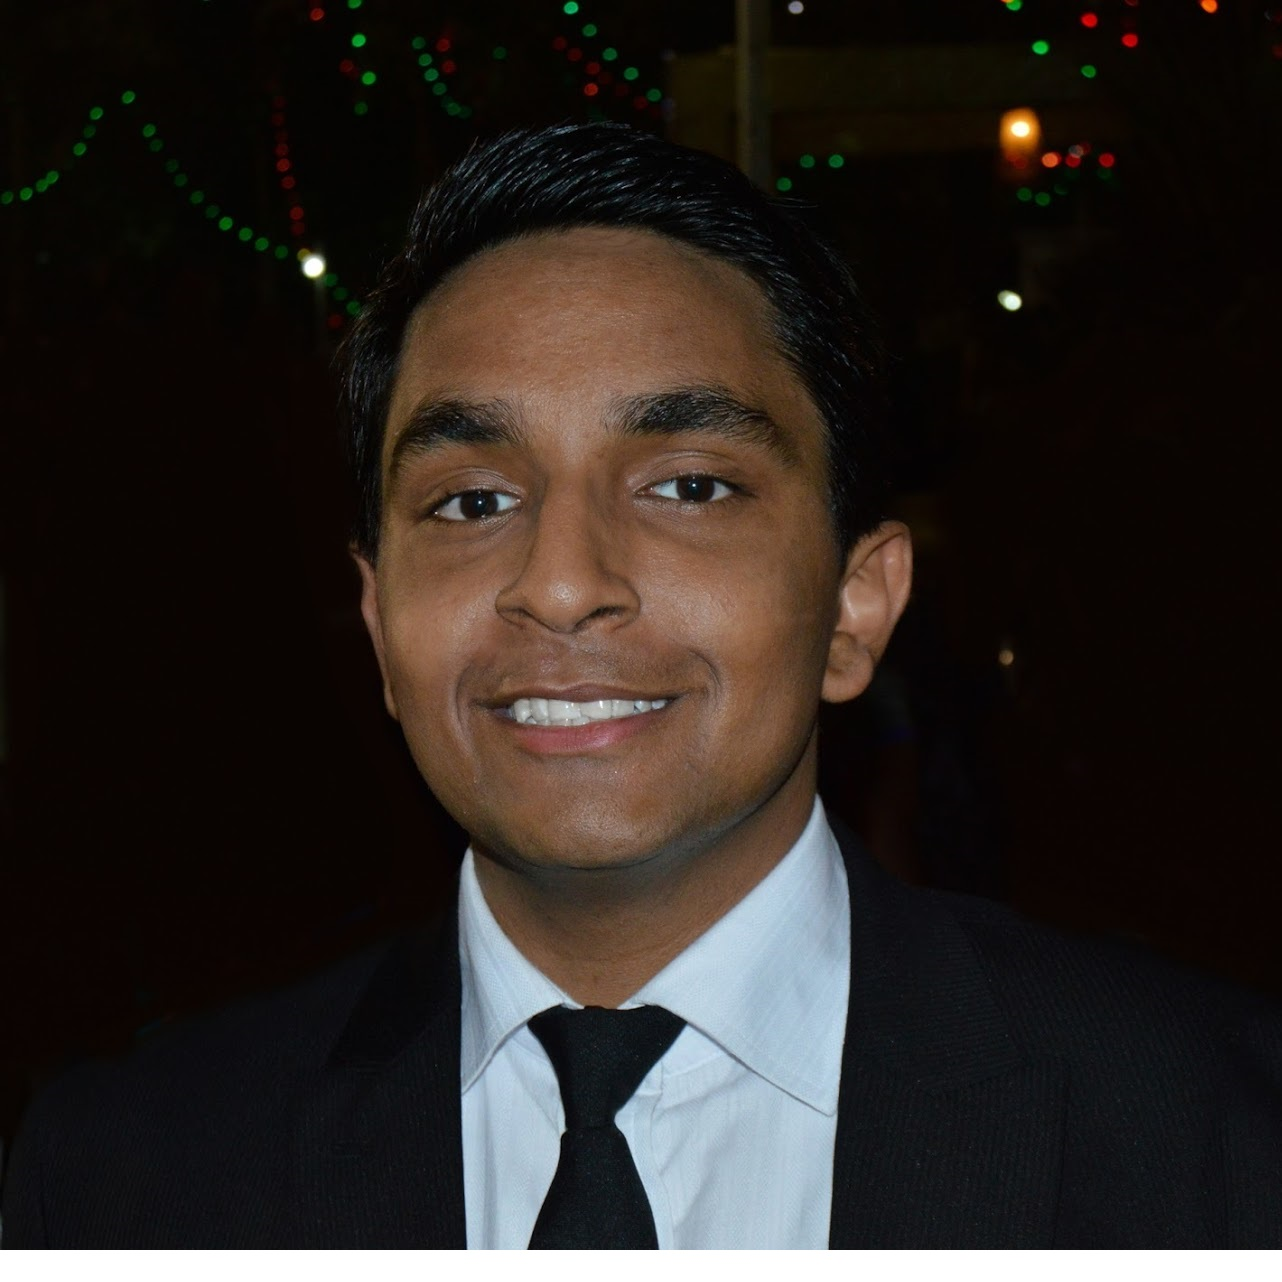
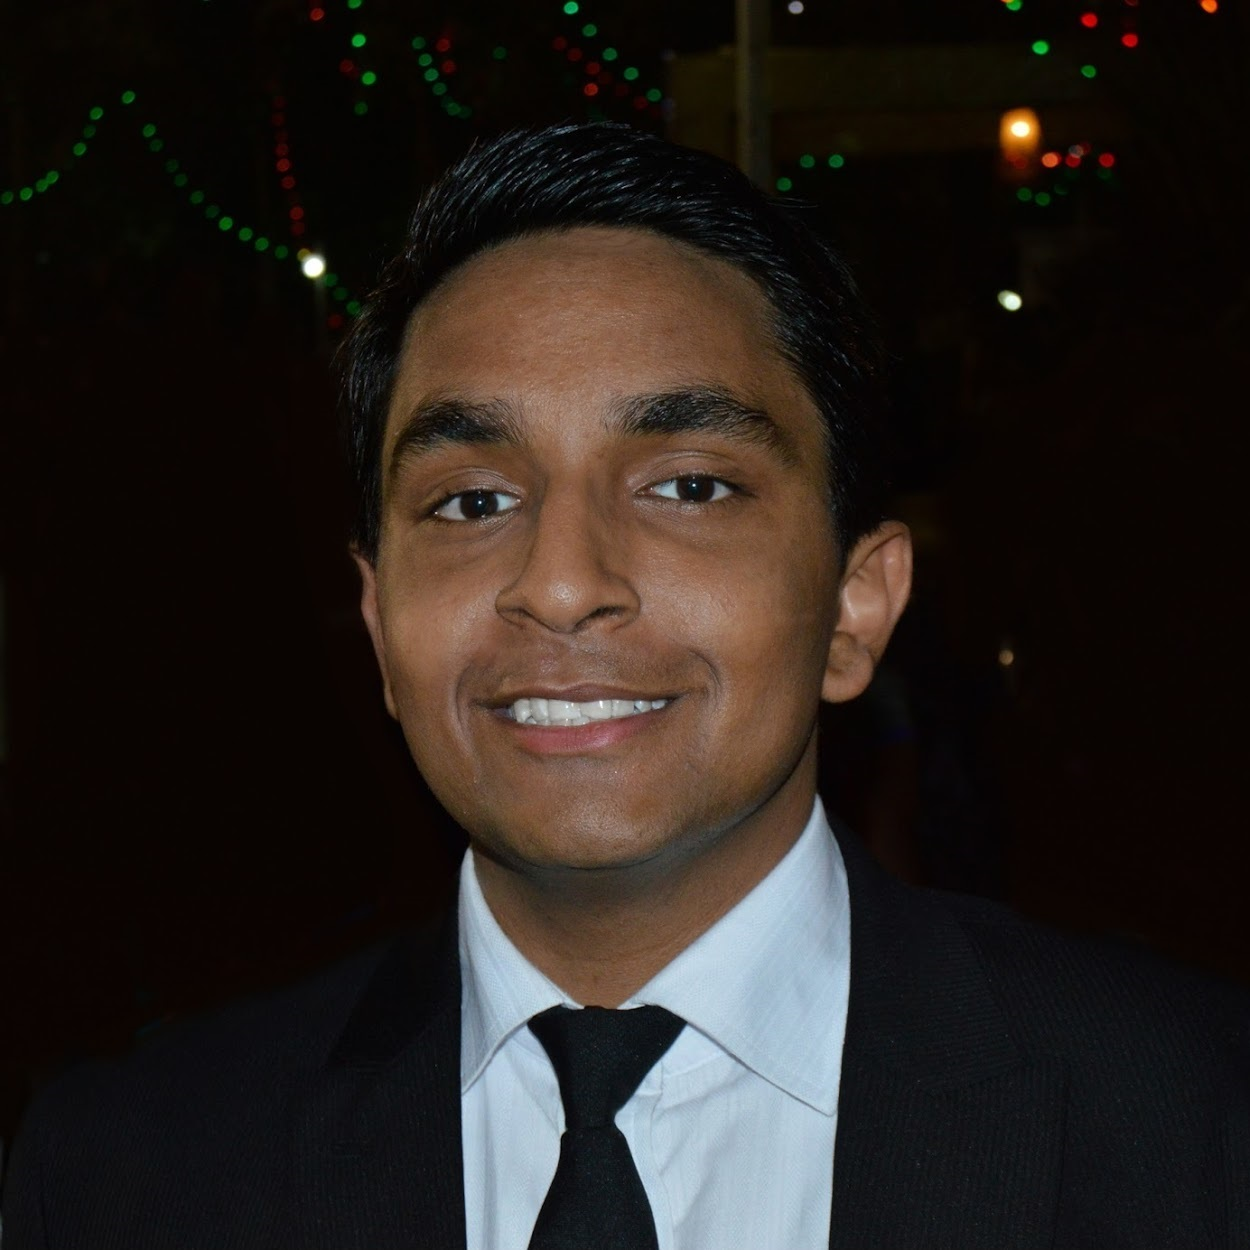
update index and headshot

diff --git a/index.html b/index.html
@@ -1,6 +1,5 @@
 <!DOCTYPE html>
 <html>
-
 <head>
         <title>Manan Patel's Website</title>
         <meta charset="UTF-8">
@@ -748,7 +747,7 @@
                                         </div>
                                     </div>
 									<div class="column right">
-											<h6>May 2017 - August 2018</h6>
+											<h6>May 2017 - Present</h6>
 									</div>
                             </div><!-- row -->
 							<div class="row">
